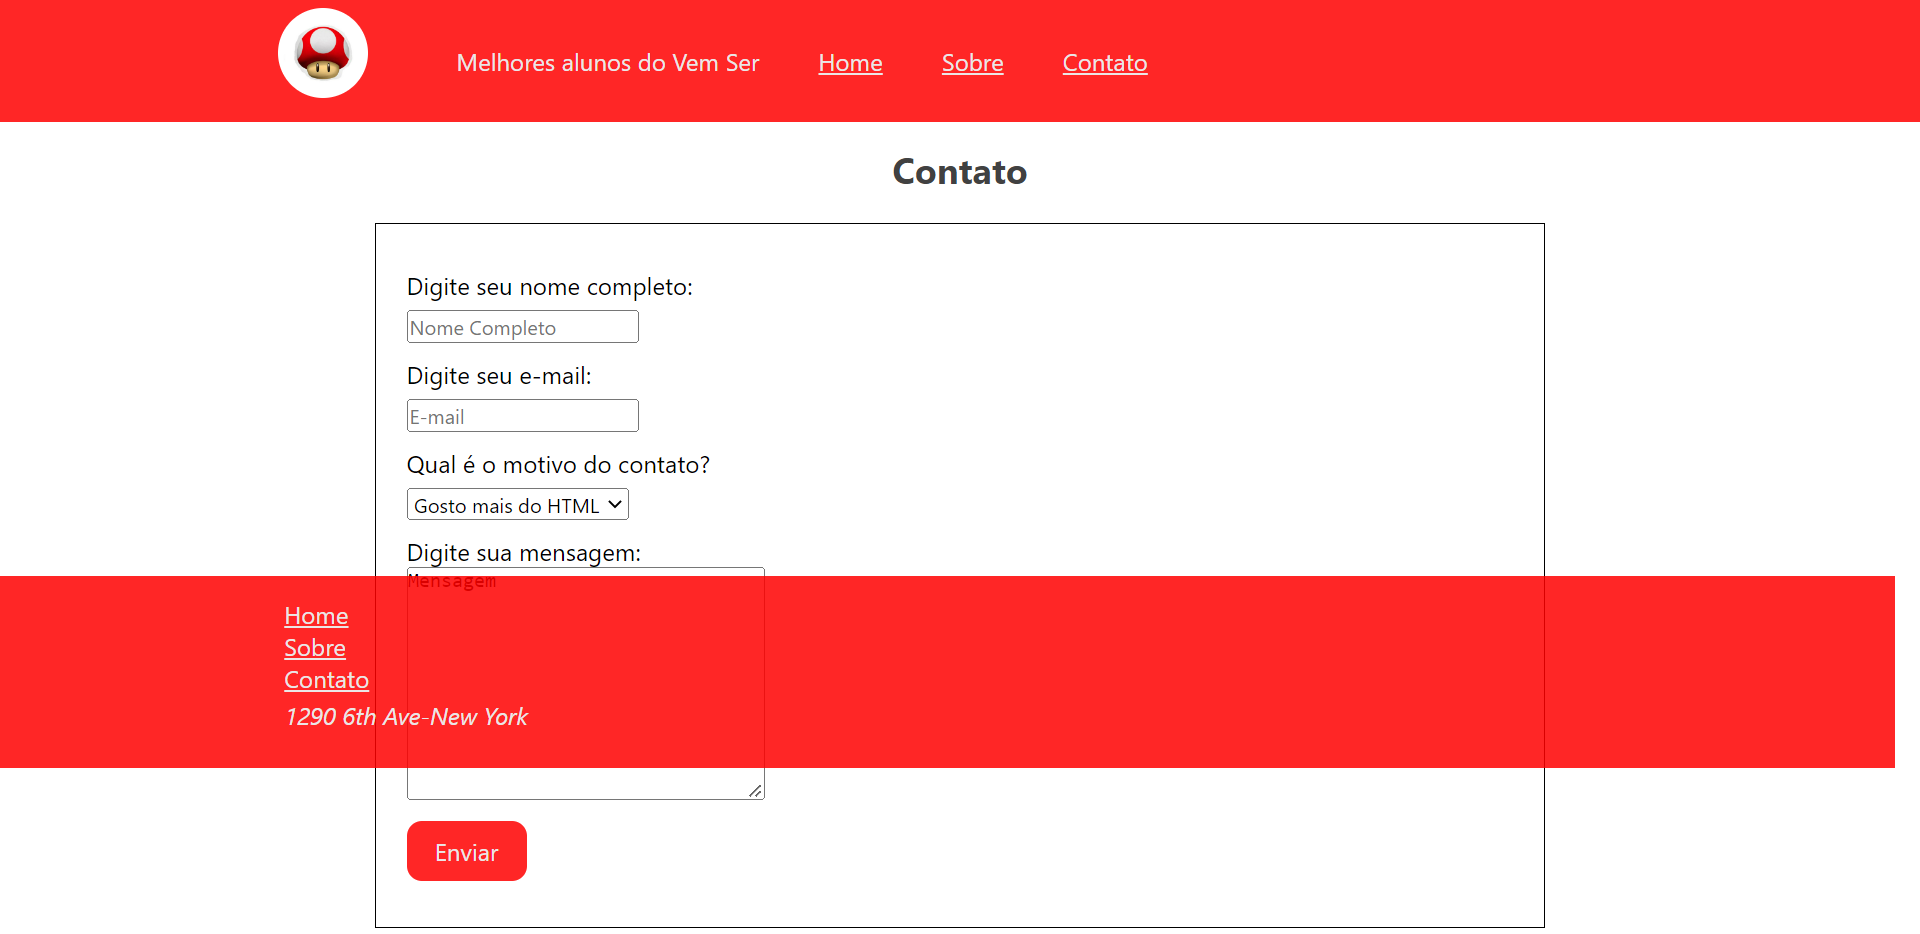
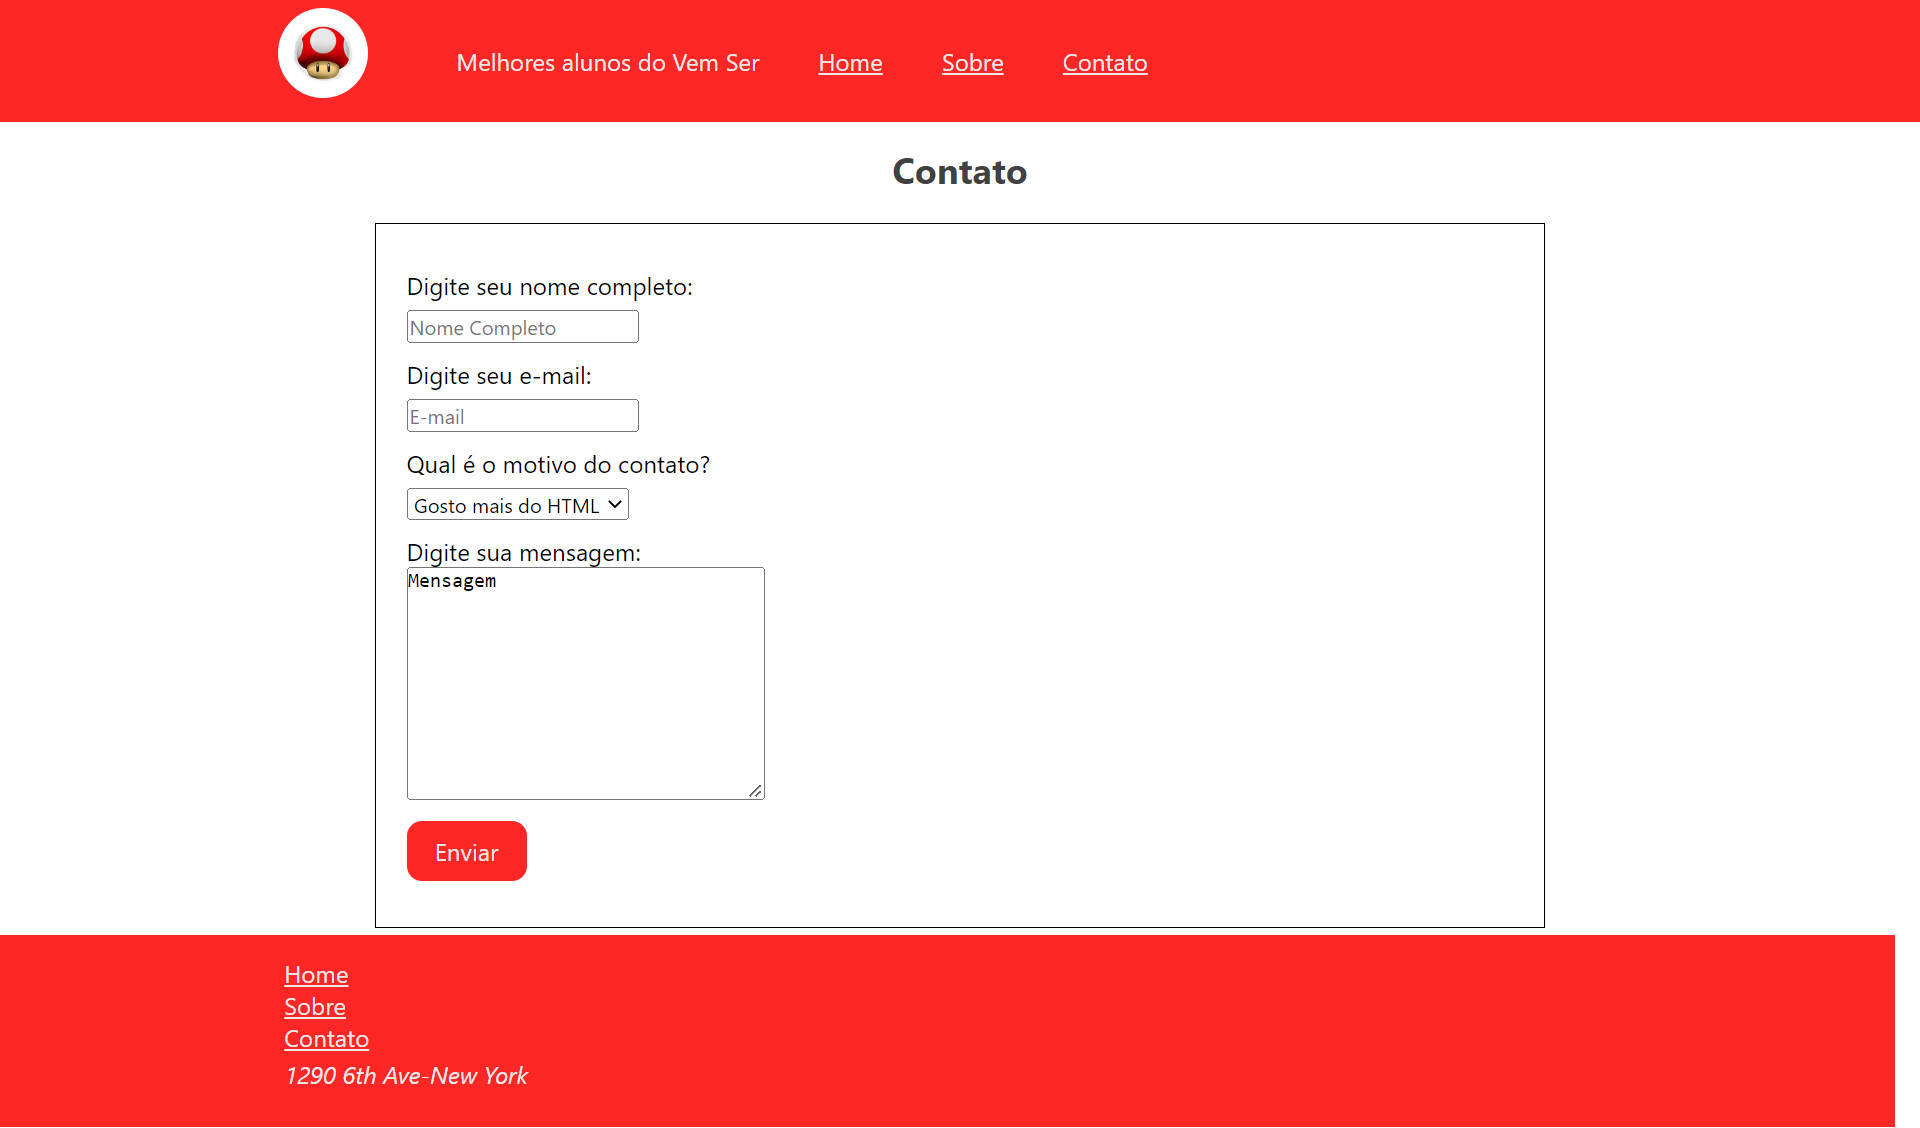
ajuste Readme

diff --git a/homework2/contato/style.css b/homework2/contato/style.css
@@ -85,7 +85,7 @@ select {
 /*footer*/
 footer {
     background-color: rgba(255, 0, 0, 0.85);
-    bottom: 0;
+    
     /* para ajustar o footer ao final da pagina*/
     position: absolute;
     /* para ajustar o footer ao final da pagina*/

diff --git a/homework2/sobre/style.css b/homework2/sobre/style.css
@@ -75,7 +75,7 @@ iframe {
 /*footer*/
 footer {
     background-color: rgba(255, 0, 0, 0.85);
-    bottom: 0;
+   
     /* para ajustar o footer ao final da pagina*/
     position: absolute;
     /* para ajustar o footer ao final da pagina*/

diff --git a/homework2/style.css b/homework2/style.css
@@ -94,6 +94,7 @@ table td {
 footer {
     /*bottom: 0;*/
     /* para ajustar o footer ao final da pagina*/
+   
     position: absolute;
     /* para ajustar o footer ao final da pagina*/
     width: 100%;
